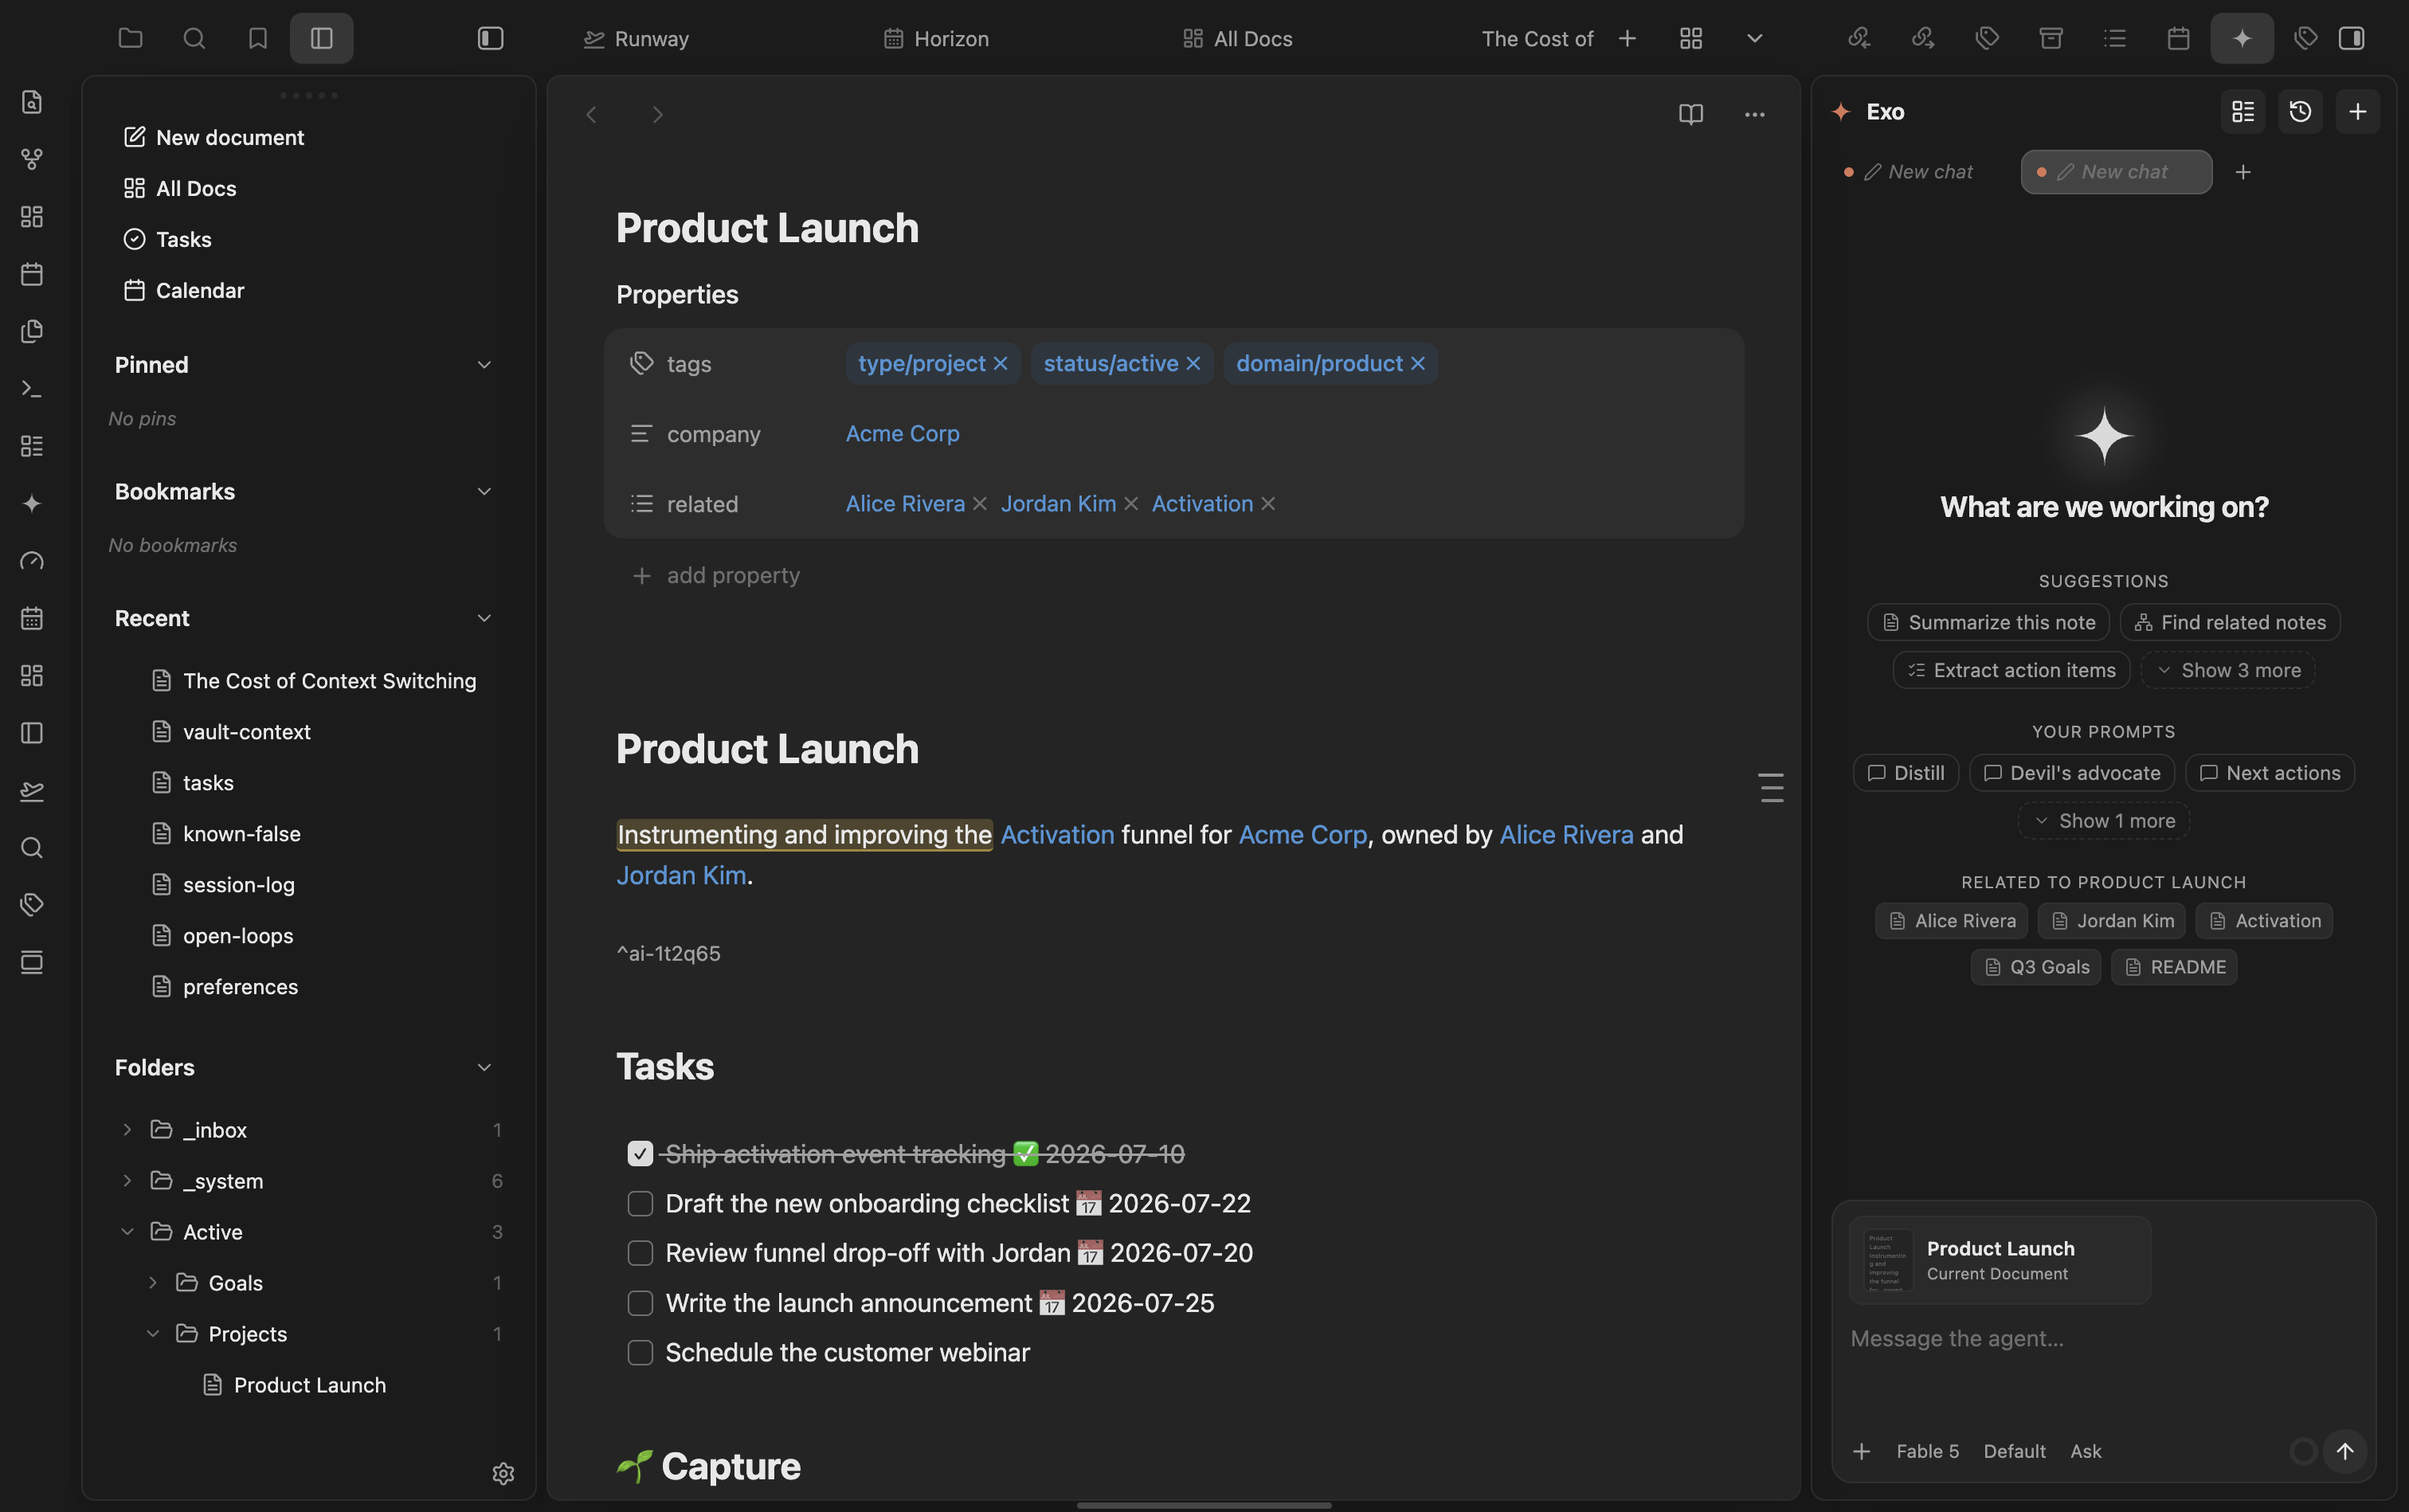
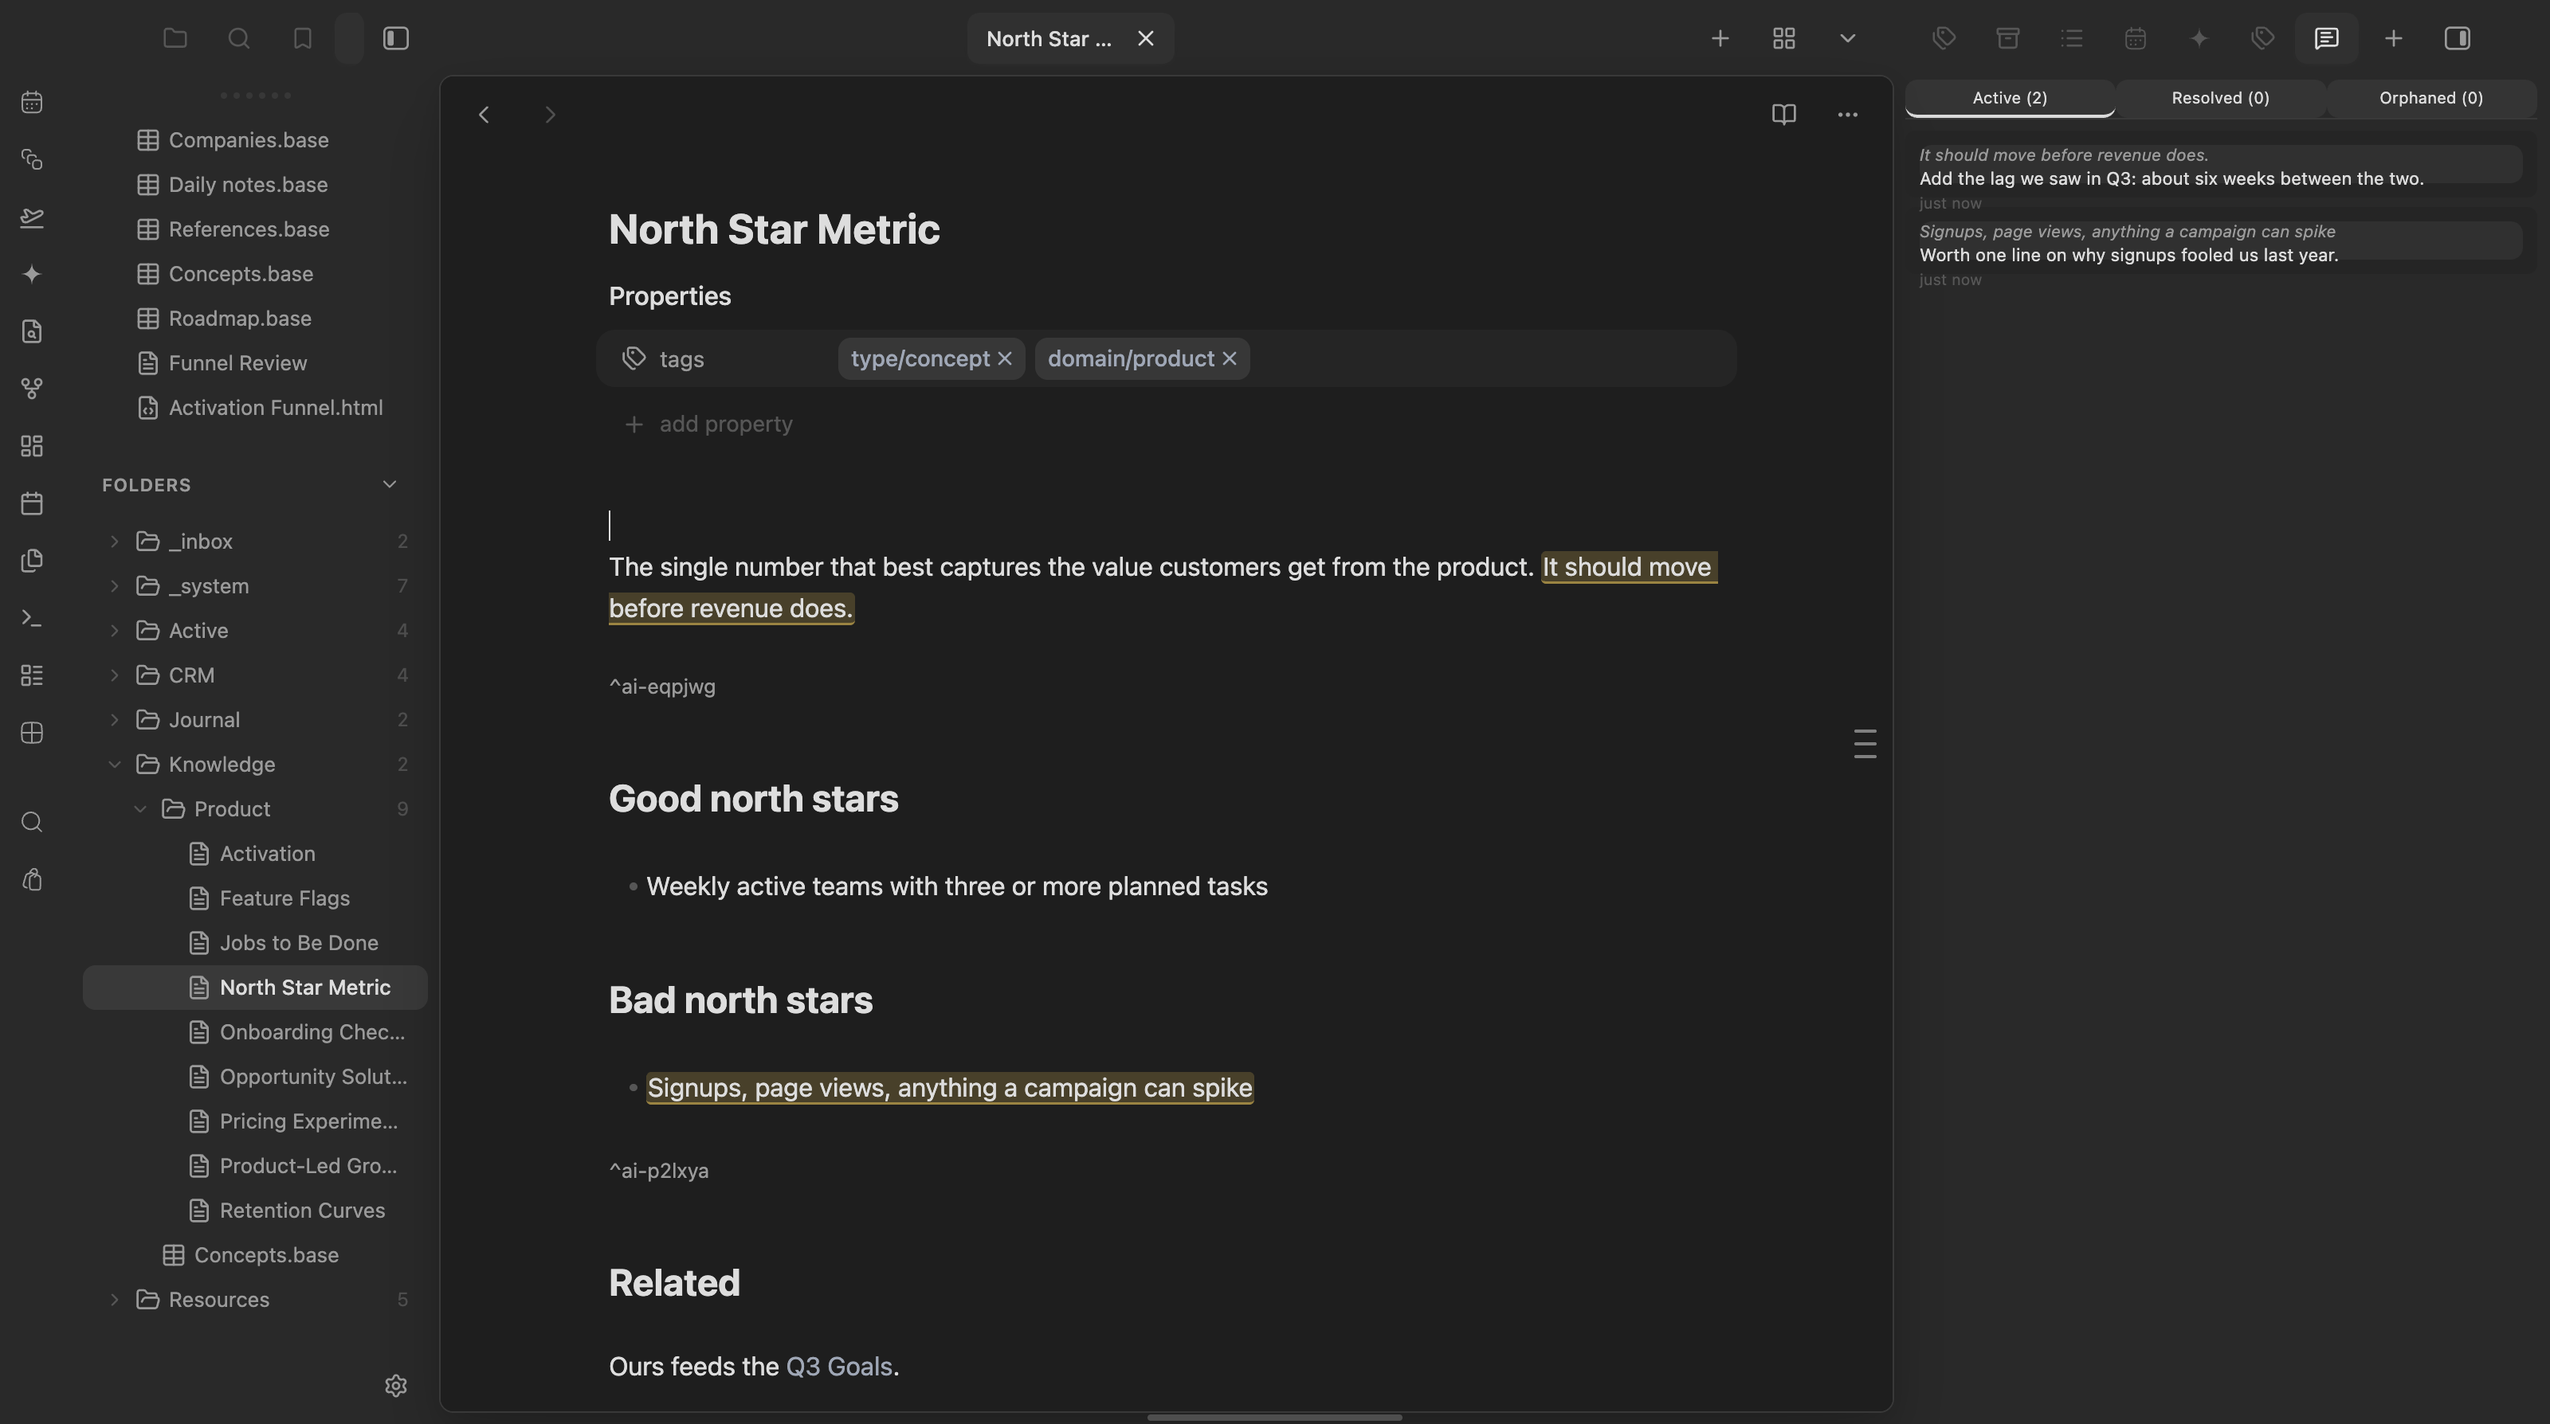
docs: real screenshots from the sample vault in the README
Captured in Obsidian with Cosmos and the current plugin build, on the
public obsidianverse sample vault.

diff --git a/README.md b/README.md
@@ -13,7 +13,7 @@ Part of the marioverse Obsidian plugin suite.
 <p align="center">
   <img src="docs/annotation.png" width="900" alt="AIditor — an inline annotation highlight" />
 </p>
-<p align="center"><em>An annotated block, highlighted inline with its block anchor visible below.</em></p>
+<p align="center"><em>Two annotated blocks, highlighted inline with their block anchors, and the annotations panel on the right.</em></p>
 
 ## Anchoring model
 
